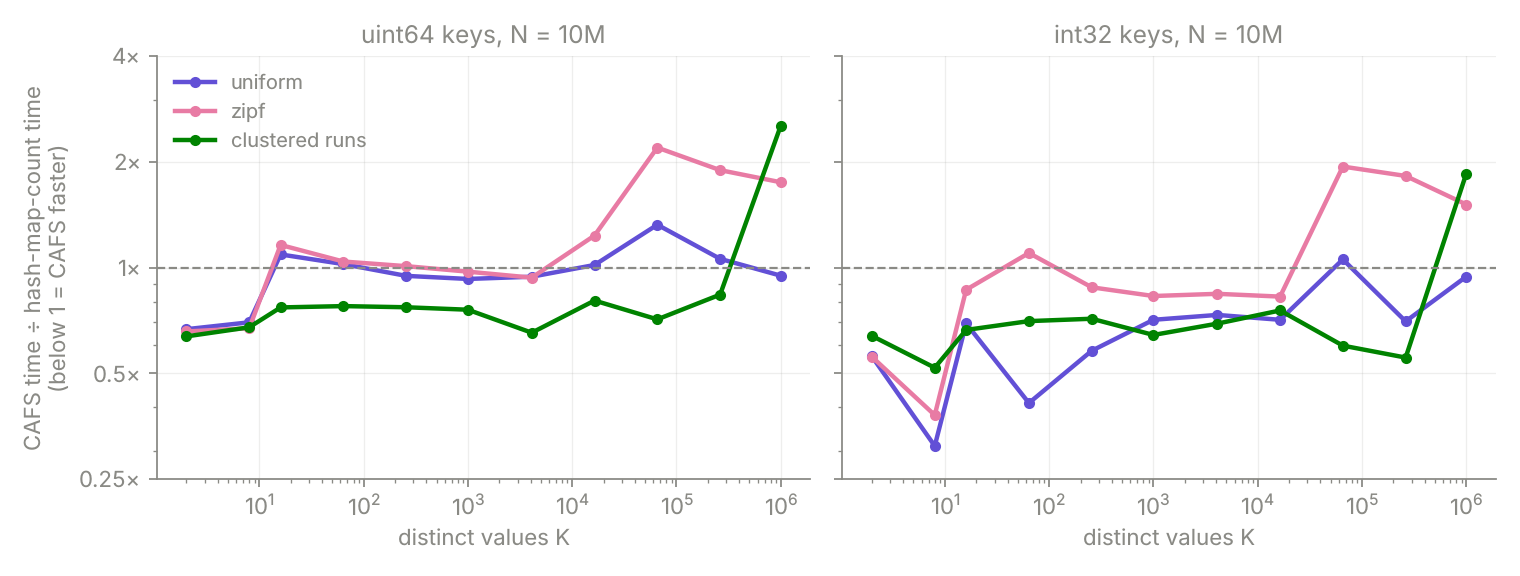
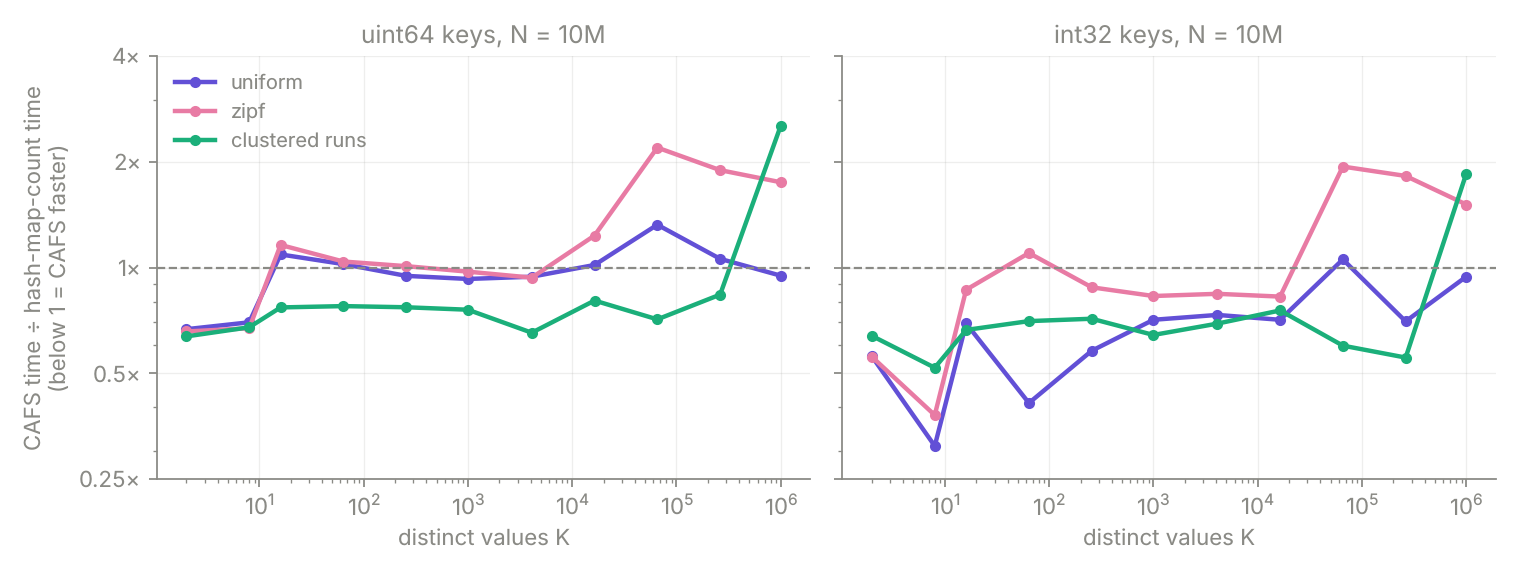
factory: cafs-is-counting draft v3 after review round 2

diff --git a/factory/lab/cafs-is-counting/plot.py b/factory/lab/cafs-is-counting/plot.py
@@ -51,7 +51,7 @@ fig.savefig("figs/ns-per-element.png", dpi=160, transparent=True)
 
 # Fig 2: CAFS time / hash-map-count time, per distribution. >1 means CAFS is slower.
 fig, axes = plt.subplots(1, 2, figsize=(9.5, 3.6), sharey=True)
-DCOL = {"uniform": "#6250d6", "zipf": "#e87ba4", "runs": "#008300"}  # distinct from Fig 1's algorithm colors
+DCOL = {"uniform": "#6250d6", "zipf": "#e87ba4", "runs": "#1baf7a"}  # distinct from Fig 1's algorithm colors
 for ax, bits in zip(axes, (64, 32)):
     for dist in DCOL:
         ks = Ks(bits, dist, 10_000_000)

diff --git a/factory/drafts/cafs-is-counting.md b/factory/drafts/cafs-is-counting.md
@@ -1,6 +1,6 @@
 ---
 title: "CAFS, minus the counting"
-description: A new low-cardinality integer sort reports 1.7–3.1× over pdqsort. For 64-bit keys a plain hash-map count matches it almost everywhere, and on skewed data with many distinct values CAFS is up to 2× slower than that count.
+description: A new low-cardinality integer sort reports 1.7–3.1× over pdqsort. For 64-bit keys a plain hash-map count matches it almost everywhere, and on skewed data with many distinct values CAFS is up to 2.2× slower than that count.
 date: 2026-10-21
 draft: false
 ---
@@ -116,7 +116,7 @@ N = 10M unless noted.
 
 - **`uint64`:** from K = 16 up, CAFS (blue) and a plain hash-map count (orange)
   track each other within about 30%. From K = 16 to 16k both beat pdqsort (green)
-  by 1.7–3.1×, which is almost exactly the paper's band. CAFS's lead at the left edge is the ≤8-key
+  by about 1.6–3.2×, close to the paper's 1.7–3.1×. CAFS's lead at the left edge is the ≤8-key
   path, which never touches a hash table.
 - **`int32`:** CAFS sits lower. Against the better of my two fast counters it is
   1.1–1.7× faster in 8 of 12 mid-K cells (range 0.8–2.4× across uniform and
@@ -134,24 +134,28 @@ N = 10M unless noted.
 | int32, Zipf, 262,144 | 17.5 | 11.1 | 10.4 | **20.7** |
 
 *ns per element, N = 10M. The last three columns come from one ablation run, so
-they compare directly. pdqsort comes from the main grid.*
+they compare directly. pdqsort comes from the main grid. Its `int32` K = 16,384
+cell is bimodal (two of five reps at ~15 ns), which is also the spike in the
+right panel above.*
 
 ![CAFS time divided by hash-map-count time, by distribution](/lab/cafs-is-counting/cafs-vs-count.png)
 
 What the two charts and the ablation say:
 
 - **For `uint64`, counting is the whole win.** From K = 16 to 16k, CAFS's time
-  divided by the hash-map count's sits between 0.8 and 1.1.
+  divided by the hash-map count's sits between 0.9 and 1.1 on uniform keys, and
+  between 0.9 and 1.25 on Zipf.
 - **The bucket mostly pays for CAFS's own overhead.** The bucket-swapped CAFS is
   up to 40% slower than real CAFS for `uint64` and 10–65% slower for `int32`. It is
   also often slower than the plain count: the sampler, the run scan and the pair
   radix pass cost something on non-clustered data, and the bucket buys that back.
   For `int32` it buys back a little more.
-- **The ≤8-key path is CAFS's clearest win.** At K ≤ 8 it is 1.2–1.5× faster
-  than a hash-map count for `uint64` and 1.8–3.2× faster for `int32` (2–4× at
-  N = 1M). A hash table can't beat 8 compares with no hash and no branches.
-- **Clustered runs favor CAFS, through run merging.** CAFS runs 1.1–1.7× faster
-  than the plain count up to K ≈ 262k. The bucket-swapped version is just as fast,
+- **The ≤8-key path is CAFS's clearest win.** At K ≤ 8 it is 1.2–1.3× faster
+  than the better of my two counters for `uint64` and 1.1–1.5× for `int32`. At
+  N = 1M, where writing the output costs less of the total, that grows to 2.0–3.8×
+  and 1.0–2.0×. A hash table can't beat 8 compares with no hash and no branches.
+- **Clustered runs favor CAFS, through run merging.** CAFS runs 1.2–1.7× faster
+  than the better counter up to K ≈ 65k. The bucket-swapped version is just as fast,
   so the bucket isn't the reason. At "K = 1M" (really ~465k distinct values at this
   N), CAFS is bimodal. On four of five inputs the sampler sees only unique values
   and falls back to pdqsort, at 26–34 ns. On the fifth it takes the bucket path, at
